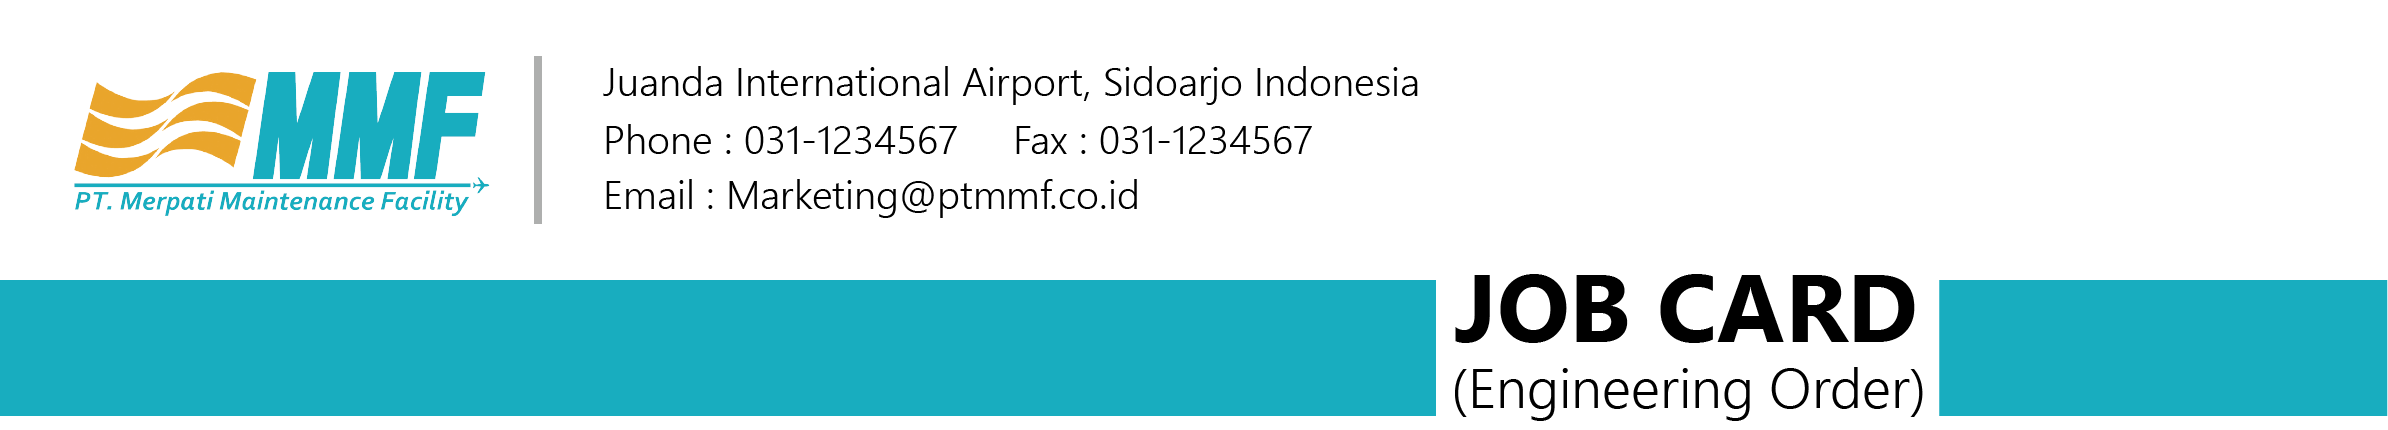
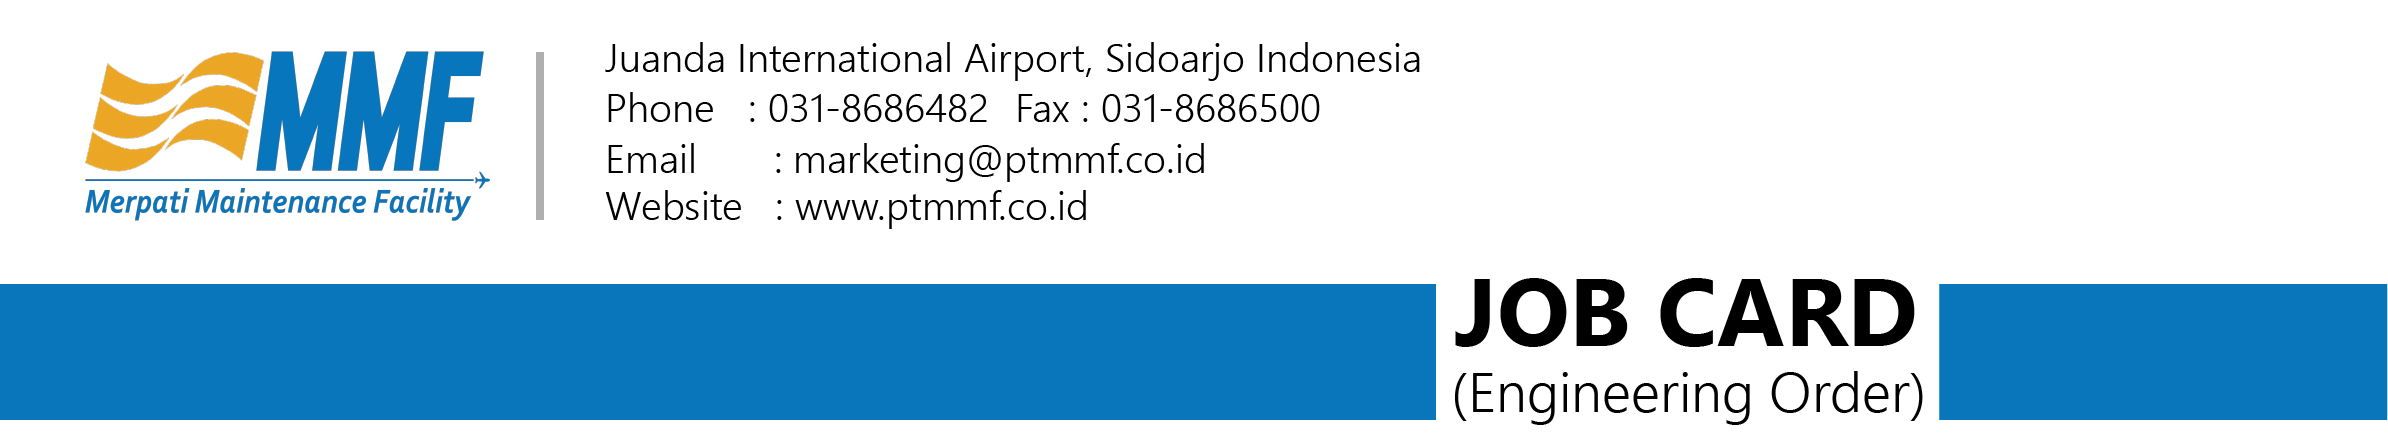
refactory all jobcard header footer

diff --git a/resources/views/frontend/form/preliminaryinspection-one.blade.php b/resources/views/frontend/form/preliminaryinspection-one.blade.php
@@ -6,6 +6,20 @@
   <meta http-equiv="X-UA-Compatible" content="ie=edge">
   <title>Document</title>
   <style>
+    header {
+      position: fixed;
+      top: 0cm;
+      left: 0cm;
+      right: 0cm;
+      height: 3cm;
+    }
+    footer {
+      position: fixed;
+      bottom: 0cm;
+      left: 0cm;
+      right: 0cm;
+      height: 1.5cm;
+    }
     html,body{
       padding: 0;
       margin: 0;
@@ -30,9 +44,9 @@
     }
 
     #content{
-      margin-top:27px;
+      margin-top:168px;
     }
-    
+
     #content .jobcard-info fieldset legend{
       font-size: 20px;
       font-weight: bold;
@@ -86,10 +100,17 @@
   </style>
 </head>
 <body>
-  
-  <div id="header">
-    <img src="./img/form/printoutpreliminaryinspection/HeaderPreliminaryInspection.jpg" alt=""width="100%">
-  </div>
+
+
+  <header id="header">
+    <img src="./img/form/printoutpreliminaryinspection/HeaderPreliminaryInspection.png" alt=""width="100%">
+  </header>
+  <footer style="margin-top:14px;">
+    <div class="container">
+      <span style="margin-left:6px">Prepared By : lorem &nbsp;&nbsp;&nbsp;&nbsp; Printed By : lorem ; lorem</span>
+    </div>
+    <img src="./img/form/printoutpreliminaryinspection/FooterPreliminaryInspection.png" width="100%" alt="" >
+  </footer>
 
   <div id="content">
     <ul>
@@ -295,15 +316,10 @@
           <table width="100%" style="margin-top: 4px;">
                 <tr>
                     <td width="50%">Issued By : Name PPC</td>
-                    <td width="50%" align="right">Page 1/2</td>
+                    <td width="50%" align="right"></td>
                 </tr>
           </table>
       </div>
   </div>
-
-  <div style="position:absolute;bottom:0;">
-    <img src="./img/form/printoutpreliminaryinspection/FooterPreliminaryInspection.jpg" width="100%" alt="" srcset="">
-  </div>
-
 </body>
 </html>

diff --git a/resources/views/frontend/form/preliminaryinspection-two.blade.php b/resources/views/frontend/form/preliminaryinspection-two.blade.php
@@ -6,6 +6,21 @@
   <meta http-equiv="X-UA-Compatible" content="ie=edge">
   <title>Document</title>
   <style>
+
+    header {
+      position: fixed;
+      top: 0cm;
+      left: 0cm;
+      right: 0cm;
+      height: 3cm;
+    }
+    footer {
+      position: fixed;
+      bottom: 0cm;
+      left: 0cm;
+      right: 0cm;
+      height: 1.5cm;
+    }
     html,body{
       padding: 0;
       margin: 0;
@@ -30,7 +45,7 @@
     }
 
     #content{
-      margin-top:27px;
+      margin-top:168px;
     }
     
     #content .jobcard-info fieldset legend{
@@ -77,10 +92,18 @@
 </head>
 <body>
   
-  <div id="header">
-    <img src="./img/form/printoutpreliminaryinspection/HeaderPreliminaryInspection.jpg" alt=""width="100%">
-  </div>
 
+
+  <header id="header">
+    <img src="./img/form/printoutpreliminaryinspection/HeaderPreliminaryInspection.png" alt=""width="100%">
+  </header>
+  <footer style="margin-top:14px;">
+    <div class="container">
+      <span style="margin-left:6px">Prepared By : lorem &nbsp;&nbsp;&nbsp;&nbsp; Printed By : lorem ; lorem</span>
+    </div>
+    <img src="./img/form/printoutpreliminaryinspection/FooterPreliminaryInspection.png" width="100%" alt="" >
+  </footer>
+  
   <div id="content">
     <ul>
       <li>
@@ -255,18 +278,5 @@
       </div>
     </div>
   </div>
-
-  <div style="position:absolute;bottom:0;">
-    <div class="container">
-      <table width="100%">
-          <tr>
-            <td width="50%">Issued By : Name PPC</td>
-            <td width="50%" align="right">Page 2/2</td>
-          </tr>
-      </table>
-    </div>
-    <img src="./img/form/printoutpreliminaryinspection/FooterPreliminaryInspection.jpg" width="100%" alt="" srcset="">
-  </div>
-
 </body>
 </html>
